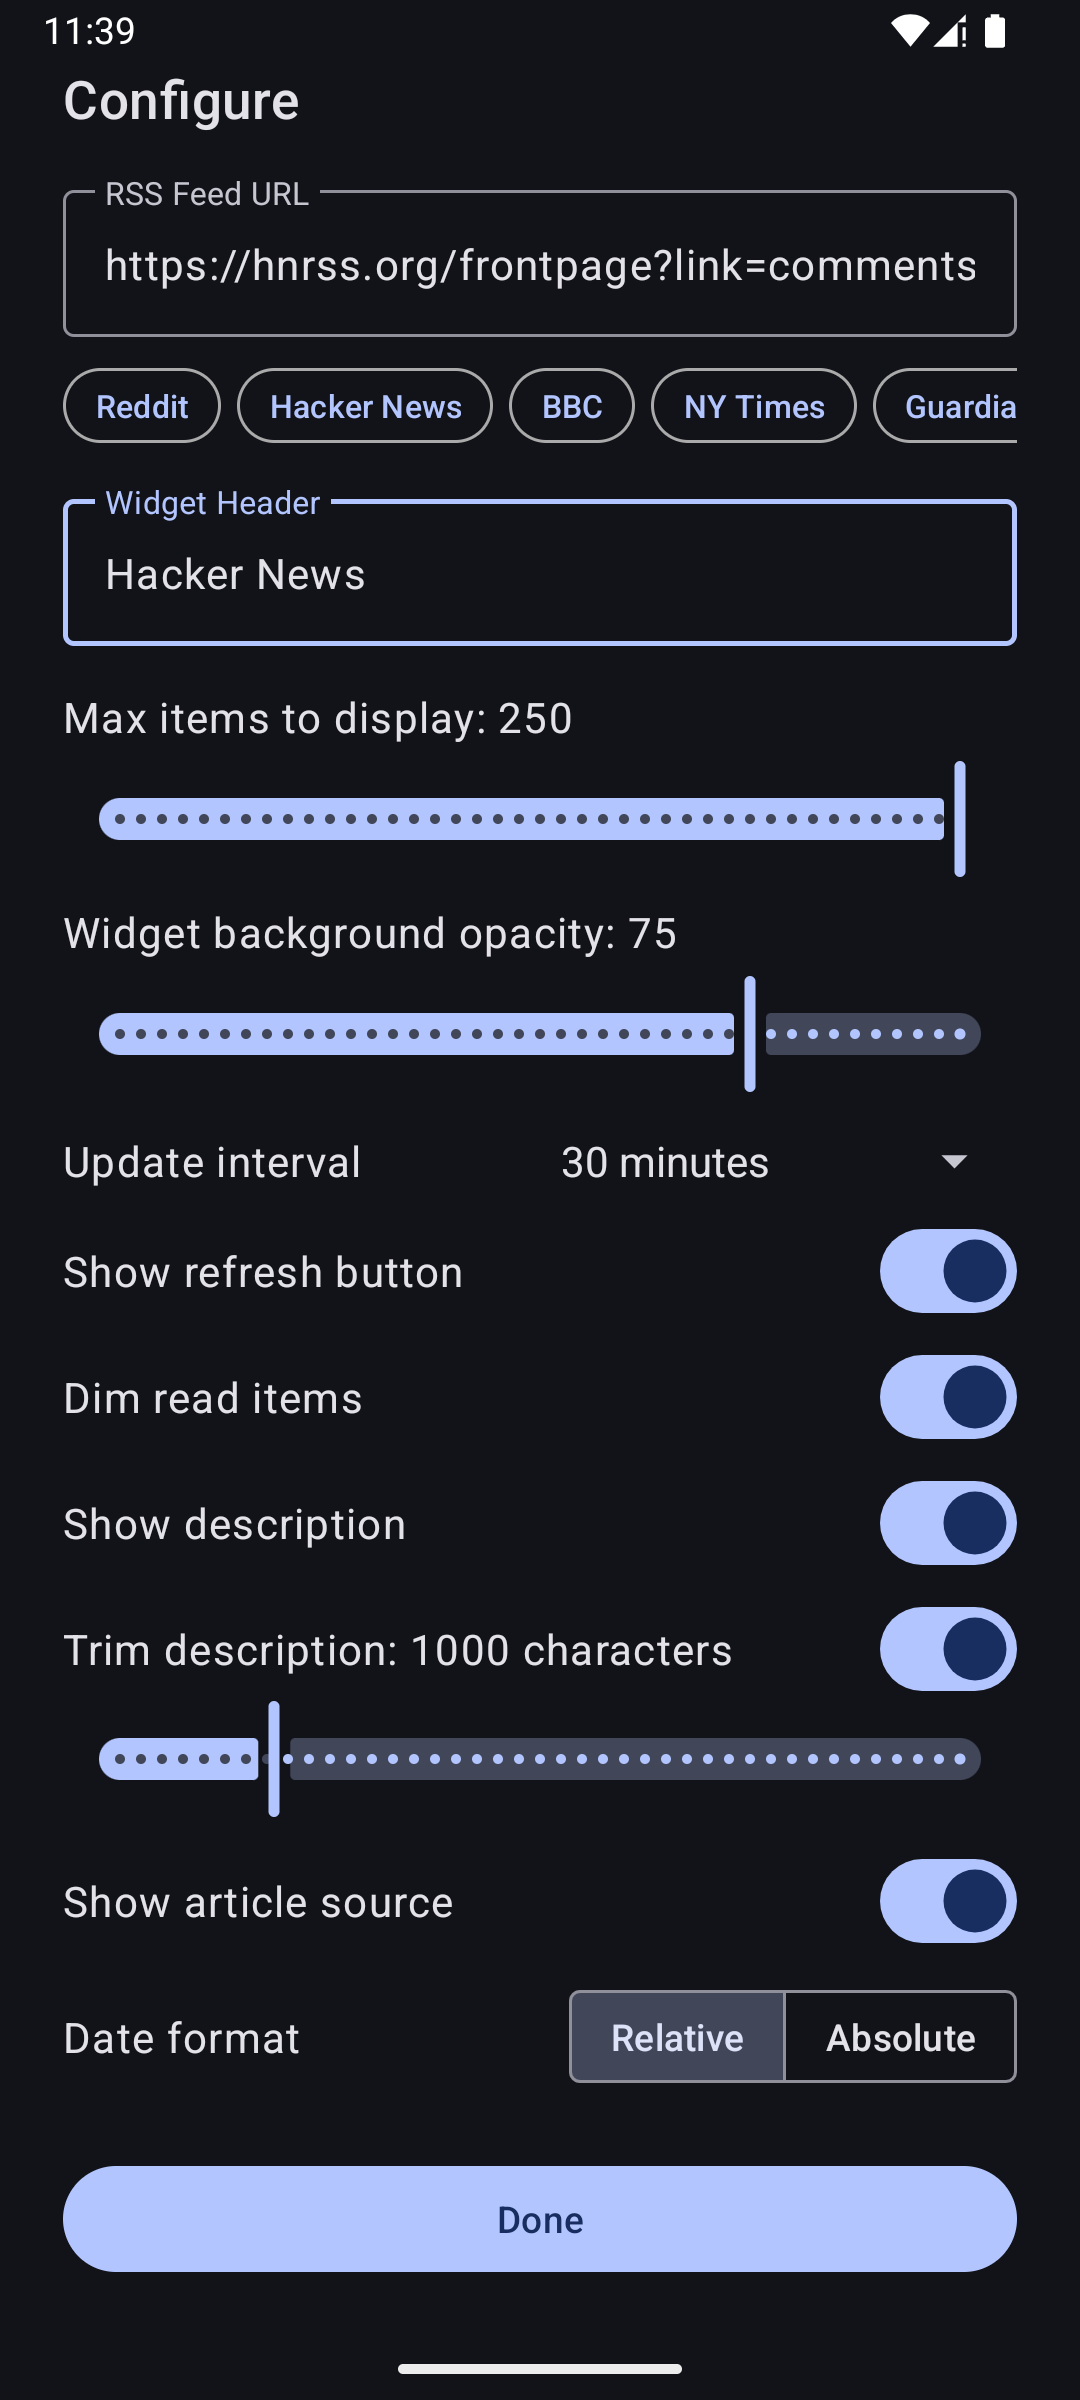
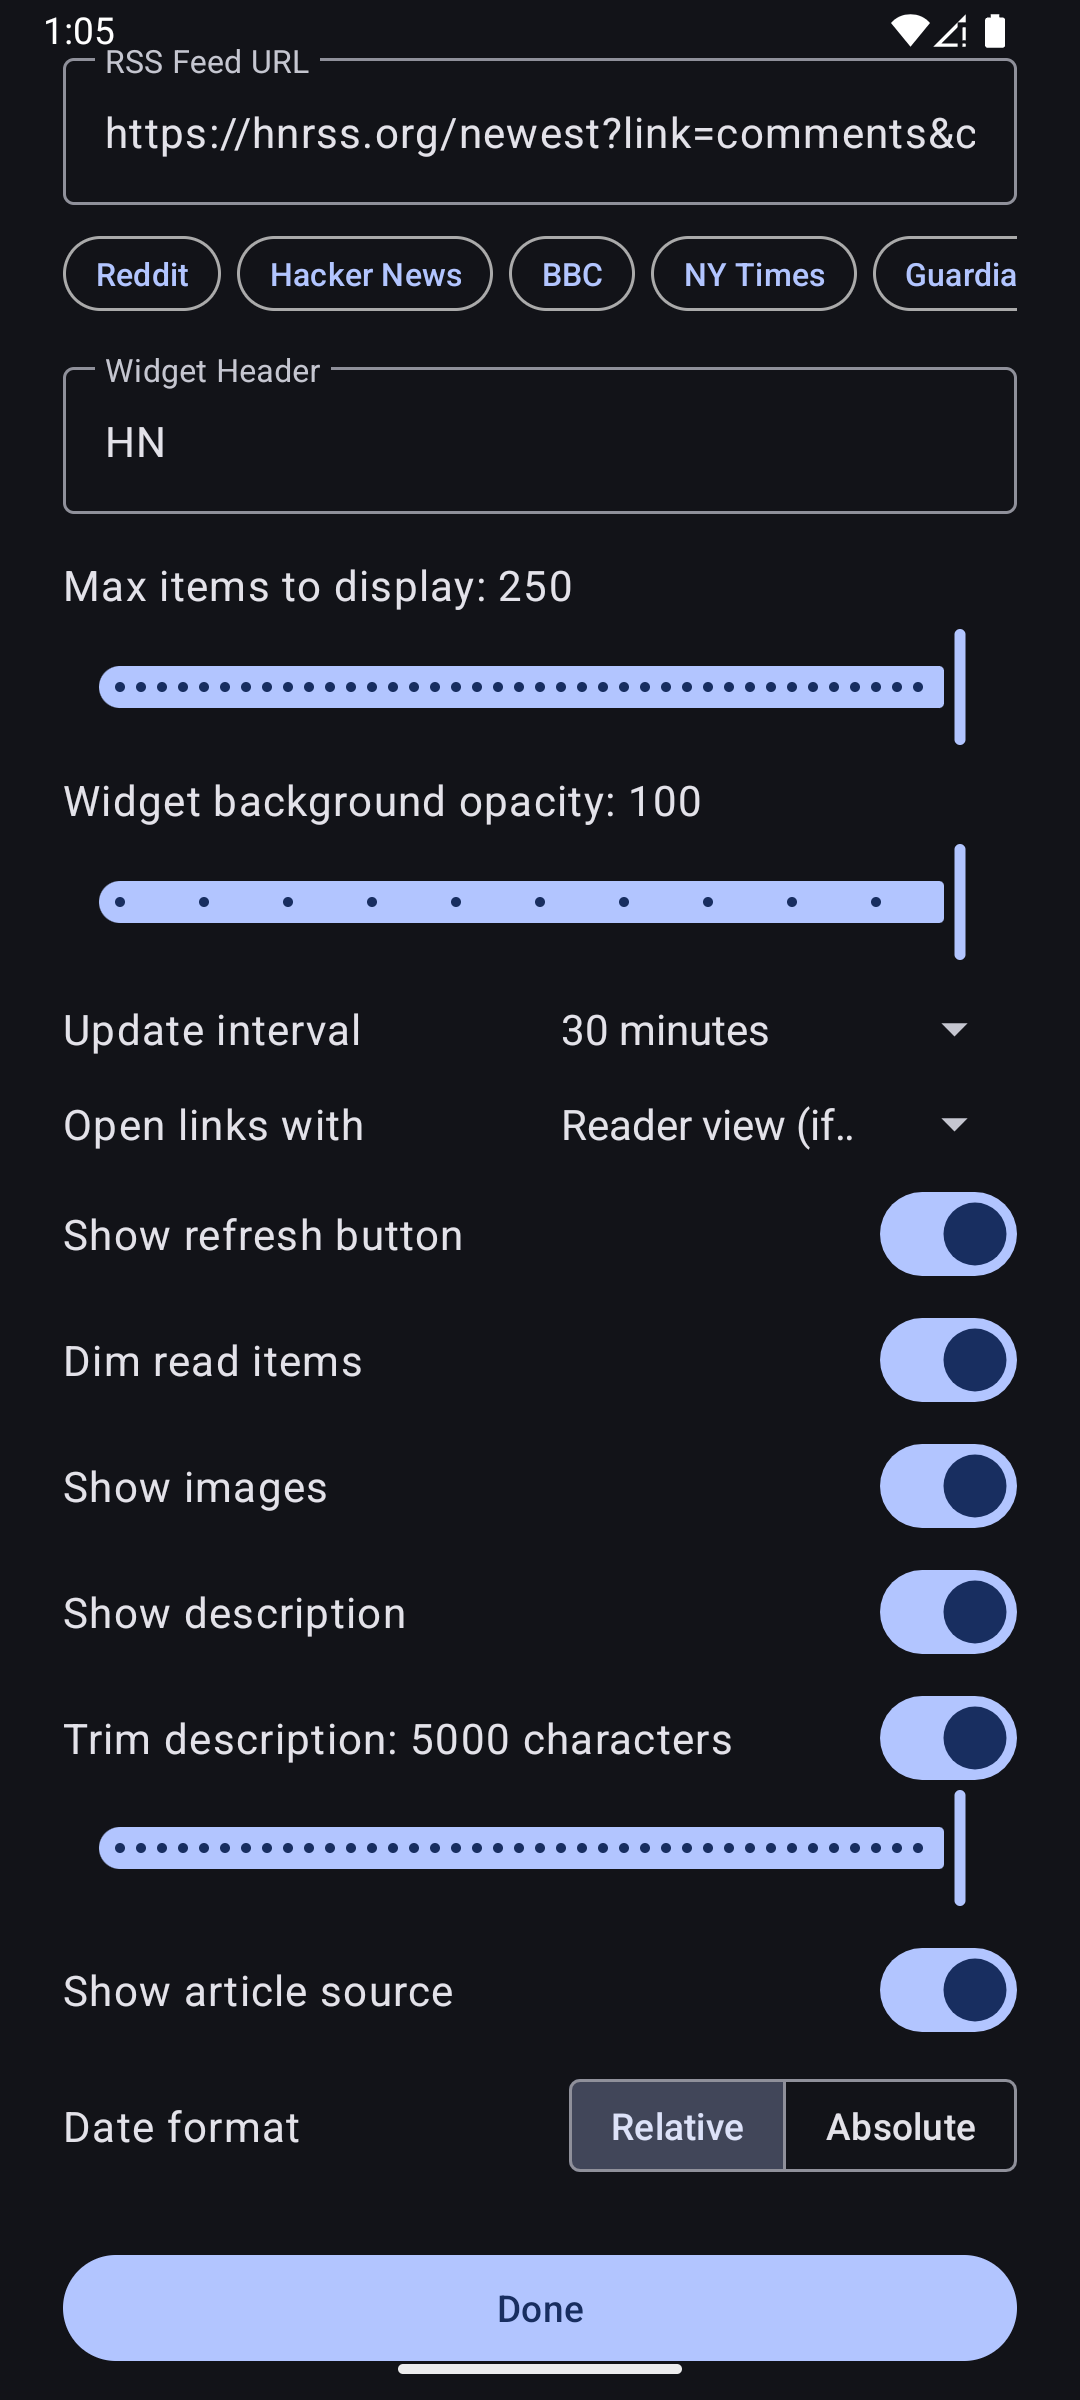
update readme

Changed region(s): [[0.0611, 0.0, 0.9472, 1.0]]

diff --git a/README.md b/README.md
@@ -28,7 +28,8 @@
 
 |                        |                        |                        |
 |------------------------|------------------------|------------------------|
-| ![](assets/config.png) | ![](assets/dark.png)   | ![](assets/light.png)  |
+| ![](fastlane/metadata/android/en-US/images/phoneScreenshots/config.png) | ![](fastlane/metadata/android/en-US/images/phoneScreenshots/dark.png) | ![](fastlane/metadata/android/en-US/images/phoneScreenshots/reader.png)
+| ![](fastlane/metadata/android/en-US/images/phoneScreenshots/light.png)  | ![](fastlane/metadata/android/en-US/images/phoneScreenshots/images.png) | ![](fastlane/metadata/android/en-US/images/phoneScreenshots/webview.png)
 
 ## Getting Started
 